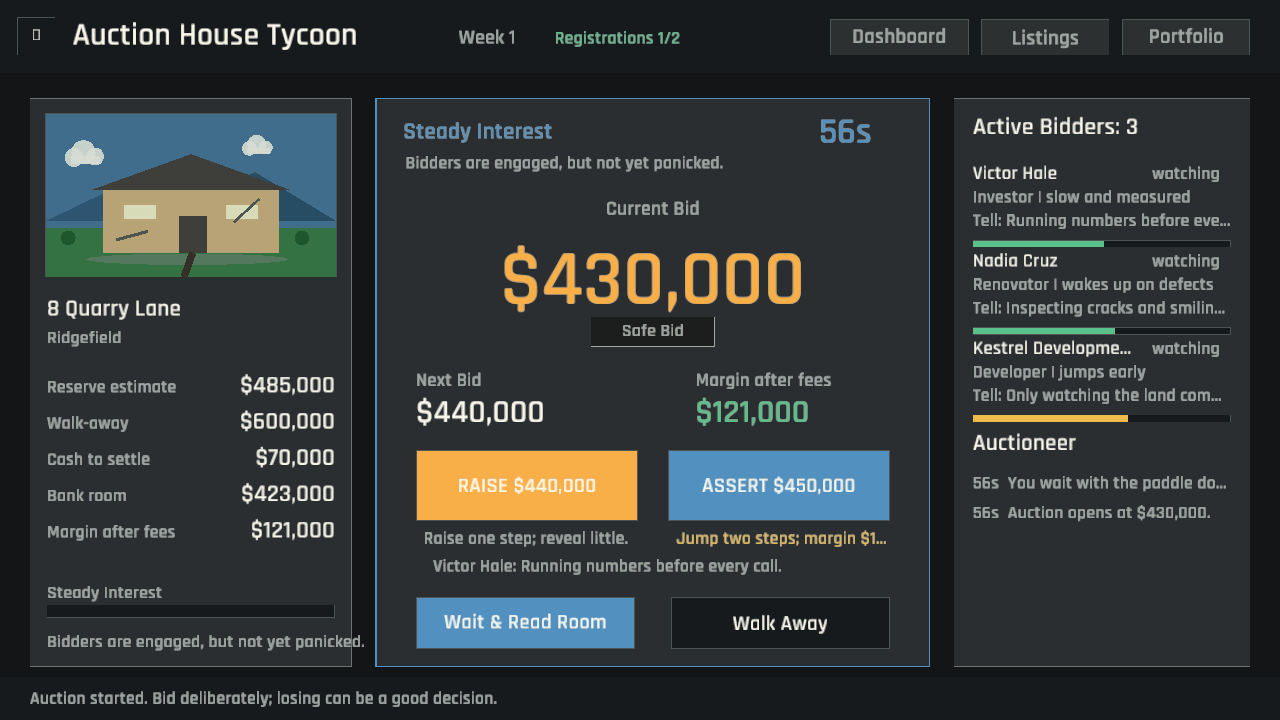
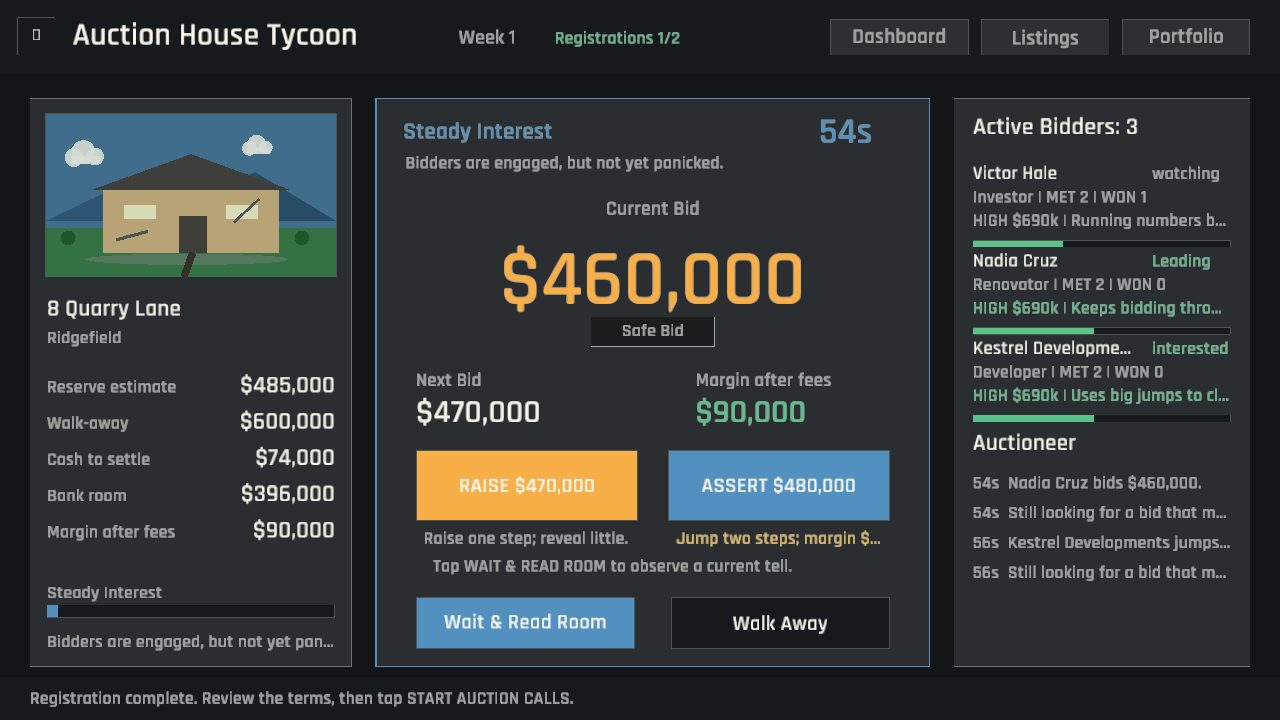
Saturday rivals become names the notebook remembers (persistent rival history)
The auction room previously reset its social context after every result, making named bidders feel like disposable meters. Completed rooms now record each rival's appearances, wins, highest witnessed room, and emotional stretches in save-compatible player state. Later auctions surface that earned history beside the live tell, while unfinished lobbies reveal nothing. The recurring room has focused tests and an updated visual proof; transient capture diagnostics from the prior milestone are removed.

diff --git a/src/screens/auction.rs b/src/screens/auction.rs
@@ -12,6 +12,7 @@ use crate::sim::auction_sim::{
 };
 use crate::sim::finance::{finance_snapshot, FinanceSnapshot};
 use crate::sim::research::estimate_reserve;
+use crate::sim::rival_notebook::record_completed_room;
 use crate::sim::valuation::{cash_needed_to_settle, projected_purchase_margin};
 use crate::ui::*;
 use macroquad::prelude::*;
@@ -102,7 +103,7 @@ impl App {
         } else if let Some(status) = auction.status.clone() {
             action = self.draw_auction_result(center, &auction, status);
         }
-        draw_bidder_panel(right, &auction);
+        draw_bidder_panel(right, &auction, &self.player.rival_notebook);
 
         match action {
             Some(AuctionUiAction::BeginAuction) => {
@@ -139,8 +140,15 @@ impl App {
                     quick_resolve_auction(auction);
                 }
             }
-            Some(AuctionUiAction::Settle) => self.settle_purchase(),
+            Some(AuctionUiAction::Settle) => {
+                let homes_before = self.player.properties.len();
+                self.settle_purchase();
+                if self.player.properties.len() > homes_before {
+                    record_completed_room(&mut self.player.rival_notebook, &auction);
+                }
+            }
             Some(AuctionUiAction::ReturnToListings) => {
+                record_completed_room(&mut self.player.rival_notebook, &auction);
                 if let Some(auction) = &self.current_auction {
                     if matches!(auction.status, Some(AuctionStatus::SoldToNpc(_)))
                         && auction.player_exit_bid.is_some()
@@ -630,7 +638,7 @@ fn draw_live_decision_panel(
     None
 }
 
-fn draw_bidder_panel(rect: Rect, auction: &Auction) {
+fn draw_bidder_panel(rect: Rect, auction: &Auction, notebook: &[crate::model::RivalRecord]) {
     soft_panel(rect);
     let active = auction
         .bidders
@@ -646,6 +654,7 @@ fn draw_bidder_panel(rect: Rect, auction: &Auction) {
     );
     for (index, bidder) in auction.bidders.iter().enumerate() {
         let y = rect.y + 76.0 + index as f32 * 82.0;
+        let history = notebook.iter().find(|record| record.name == bidder.name);
         label_fit(
             &bidder.name,
             rect.x + 18.0,
@@ -656,7 +665,15 @@ fn draw_bidder_panel(rect: Rect, auction: &Auction) {
         );
         let is_leading = auction.last_bidder == Some(BidderActor::Npc(index));
         label_fit(
-            &format!("{} | {}", bidder.bidder_type.label(), bidder.rhythm),
+            &match history {
+                Some(record) => format!(
+                    "{} | MET {} | WON {}",
+                    bidder.bidder_type.label(),
+                    record.auctions_met,
+                    record.auctions_won
+                ),
+                None => format!("{} | FIRST MEETING", bidder.bidder_type.label()),
+            },
             rect.x + 18.0,
             y + 22.0,
             rect.w - 36.0,
@@ -683,7 +700,14 @@ fn draw_bidder_panel(rect: Rect, auction: &Auction) {
             bidder.heat,
         );
         label_fit(
-            &format!("Tell: {}", bidder.tell),
+            &match history {
+                Some(record) => format!(
+                    "HIGH {} | {}",
+                    format_compact_money(record.highest_room_price),
+                    bidder.tell
+                ),
+                None => format!("Tell: {}", bidder.tell),
+            },
             rect.x + 18.0,
             y + 44.0,
             rect.w - 36.0,

diff --git a/src/sim/rival_notebook/tests.rs b/src/sim/rival_notebook/tests.rs
@@ -1,0 +1,54 @@
+use super::*;
+use crate::data::GameData;
+use crate::model::{AuctionStatus, ResearchLevel, WalkawayStyle};
+use crate::sim::auction_sim::create_auction;
+
+#[test]
+fn completed_rooms_accumulate_recurring_rival_history() {
+    let data = GameData::load();
+    let property = crate::model::Property::from_template(&data.properties[0]);
+    let mut auction = create_auction(
+        &property,
+        &data.market_events[0],
+        &data.bidder_profiles,
+        property.reserve_price,
+        ResearchLevel::StreetScan,
+        WalkawayStyle::Balanced,
+    );
+    let winner = auction.bidders[0].name.clone();
+    auction.current_bid = property.reserve_price + 20_000;
+    auction.bidders[0].stretch_bid_used = true;
+    auction.status = Some(AuctionStatus::SoldToNpc(winner.clone()));
+    let mut notebook = Vec::new();
+
+    record_completed_room(&mut notebook, &auction);
+    record_completed_room(&mut notebook, &auction);
+
+    let record = notebook
+        .iter()
+        .find(|record| record.name == winner)
+        .expect("winner should enter the notebook");
+    assert_eq!(record.auctions_met, 2);
+    assert_eq!(record.auctions_won, 2);
+    assert_eq!(record.stretches_seen, 2);
+    assert_eq!(record.highest_room_price, auction.current_bid);
+}
+
+#[test]
+fn an_unfinished_lobby_does_not_create_rival_knowledge() {
+    let data = GameData::load();
+    let property = crate::model::Property::from_template(&data.properties[0]);
+    let auction = create_auction(
+        &property,
+        &data.market_events[0],
+        &data.bidder_profiles,
+        property.reserve_price,
+        ResearchLevel::StreetScan,
+        WalkawayStyle::Balanced,
+    );
+    let mut notebook = Vec::new();
+
+    record_completed_room(&mut notebook, &auction);
+
+    assert!(notebook.is_empty());
+}

diff --git a/src/app/capture.rs b/src/app/capture.rs
@@ -1,6 +1,7 @@
 use super::App;
 use crate::model::{
-    AuctionStatus, CampaignStatus, OwnedProperty, Property, ResearchLevel, WalkawayStyle,
+    AuctionStatus, CampaignStatus, OwnedProperty, Property, ResearchLevel, RivalRecord,
+    WalkawayStyle,
 };
 use crate::screens::Screen;
 use crate::sim::auction_sim::{begin_auction_calls, hold_player_position, place_player_bid};
@@ -67,6 +68,24 @@ impl App {
                 self.start_new_game();
                 if let Some(property) = self.available_properties.first().cloned() {
                     self.start_auction(property.id);
+                    if let Some(auction) = self.current_auction.as_ref() {
+                        self.player.rival_notebook = auction
+                            .bidders
+                            .iter()
+                            .map(|bidder| RivalRecord {
+                                name: bidder.name.clone(),
+                                bidder_type: bidder.bidder_type,
+                                auctions_met: 2,
+                                auctions_won: u32::from(
+                                    bidder.bidder_type == crate::model::BidderType::Investor,
+                                ),
+                                highest_room_price: 690_000,
+                                stretches_seen: u32::from(
+                                    bidder.bidder_type == crate::model::BidderType::FirstHomeBuyer,
+                                ),
+                            })
+                            .collect();
+                    }
                     if let Some(auction) = self.current_auction.as_mut() {
                         begin_auction_calls(auction);
                         hold_player_position(auction);

diff --git a/src/sim/rival_notebook.rs b/src/sim/rival_notebook.rs
@@ -1,0 +1,36 @@
+use crate::model::{Auction, AuctionStatus, RivalRecord};
+
+pub fn record_completed_room(notebook: &mut Vec<RivalRecord>, auction: &Auction) {
+    let Some(status) = auction.status.as_ref() else {
+        return;
+    };
+    let winner = match status {
+        AuctionStatus::SoldToNpc(name) => Some(name.as_str()),
+        _ => None,
+    };
+
+    for bidder in &auction.bidders {
+        let won = winner == Some(bidder.name.as_str());
+        if let Some(record) = notebook
+            .iter_mut()
+            .find(|record| record.name == bidder.name)
+        {
+            record.auctions_met += 1;
+            record.auctions_won += u32::from(won);
+            record.highest_room_price = record.highest_room_price.max(auction.current_bid);
+            record.stretches_seen += u32::from(bidder.stretch_bid_used);
+        } else {
+            notebook.push(RivalRecord {
+                name: bidder.name.clone(),
+                bidder_type: bidder.bidder_type,
+                auctions_met: 1,
+                auctions_won: u32::from(won),
+                highest_room_price: auction.current_bid,
+                stretches_seen: u32::from(bidder.stretch_bid_used),
+            });
+        }
+    }
+}
+
+#[cfg(test)]
+mod tests;

diff --git a/src/model/player/tests.rs b/src/model/player/tests.rs
@@ -7,6 +7,7 @@ fn a_new_investor_starts_with_an_empty_career_record() {
     assert_eq!(player.career.auctions_attended, 0);
     assert_eq!(player.career.homes_bought, 0);
     assert_eq!(player.career.realized_profit, 0);
+    assert!(player.rival_notebook.is_empty());
 }
 
 #[test]
@@ -24,4 +25,5 @@ fn older_saves_gain_an_empty_career_record() {
     assert_eq!(player.cash, 184_000);
     assert_eq!(player.reputation, 2);
     assert_eq!(player.career.auctions_attended, 0);
+    assert!(player.rival_notebook.is_empty());
 }

diff --git a/src/model/player.rs b/src/model/player.rs
@@ -11,6 +11,8 @@ pub struct Player {
     pub reputation: i32,
     #[serde(default)]
     pub career: CareerRecord,
+    #[serde(default)]
+    pub rival_notebook: Vec<crate::model::RivalRecord>,
 }
 
 impl Player {
@@ -21,6 +23,7 @@ impl Player {
             properties: Vec::new(),
             reputation: 0,
             career: CareerRecord::default(),
+            rival_notebook: Vec::new(),
         }
     }
 }

diff --git a/src/model/bidder.rs b/src/model/bidder.rs
@@ -76,3 +76,13 @@ pub struct Bidder {
     pub has_logged_exit: bool,
     pub stretch_bid_used: bool,
 }
+
+#[derive(Clone, Debug, Deserialize, Serialize)]
+pub struct RivalRecord {
+    pub name: String,
+    pub bidder_type: BidderType,
+    pub auctions_met: u32,
+    pub auctions_won: u32,
+    pub highest_room_price: i64,
+    pub stretches_seen: u32,
+}

diff --git a/src/sim/mod.rs b/src/sim/mod.rs
@@ -7,5 +7,6 @@ pub mod maintenance;
 pub mod renovation;
 pub mod rental;
 pub mod research;
+pub mod rival_notebook;
 pub mod sale_sim;
 pub mod valuation;

diff --git a/GAME_DESIGN.md b/GAME_DESIGN.md
@@ -46,6 +46,7 @@ The three requirements prevent a single degenerate strategy. Cheap but poor asse
 - Maintenance checks occur on a disclosed schedule, reduce collected rent until repaired, and never arrive as uncontrolled random punishment.
 - Walking away preserves capital and can build discipline reputation when a rival overheats.
 - The season ledger values attendance, settled purchases, disciplined exits, post-auction buys, completed sales, and realized profit.
+- Named bidders recur across authored Saturdays. Completed rooms persist appearances, wins, stretch behaviour, and highest prices in the player's notebook, so recognition becomes earned information.
 - The campaign resolves immediately when all three portfolio conditions are true, including after settlement, leasing, or a required repair; success never demands an artificial extra week of costs.
 - A failed season identifies each exact shortfall and names the largest normalized constraint, turning the final ledger into strategy feedback for the next portfolio rather than a generic game-over screen.
 

diff --git a/README.md b/README.md
@@ -13,6 +13,7 @@ Winning an auction is not automatically good. The real challenge is knowing what
 - Raise normally, make one assertive jump, wait for a rival tell, or walk away in live auctions.
 - Resume a saved live auction without rerolling the room, and survive a suspended browser tab without losing the clock.
 - Tap WAIT & READ ROOM to earn a current observation; the next bid makes that read stale.
+- Meet the same named rivals across Saturdays and build a notebook of their appearances, wins, stretching behaviour, and highest rooms.
 - Hear a legal vendor bid below the hidden reserve and the auctioneer's decisive on-market call.
 - Negotiate a visible vendor counteroffer after a pass-in, or leave the private deal untouched.
 - Build a season record that credits disciplined exits alongside purchases and profitable sales.
